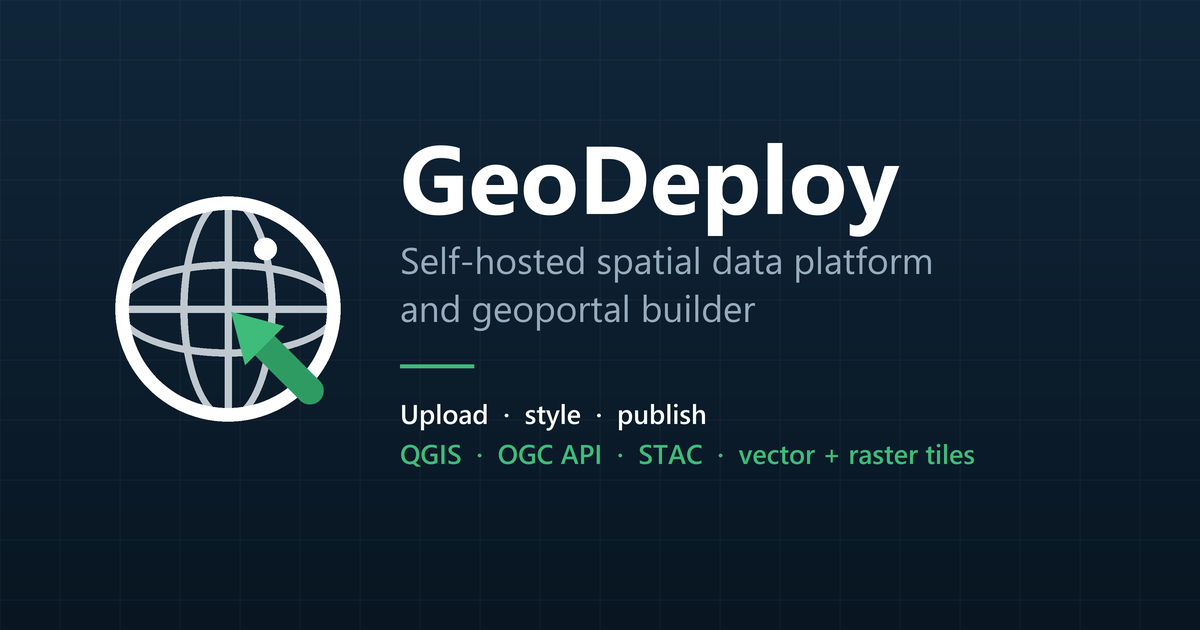
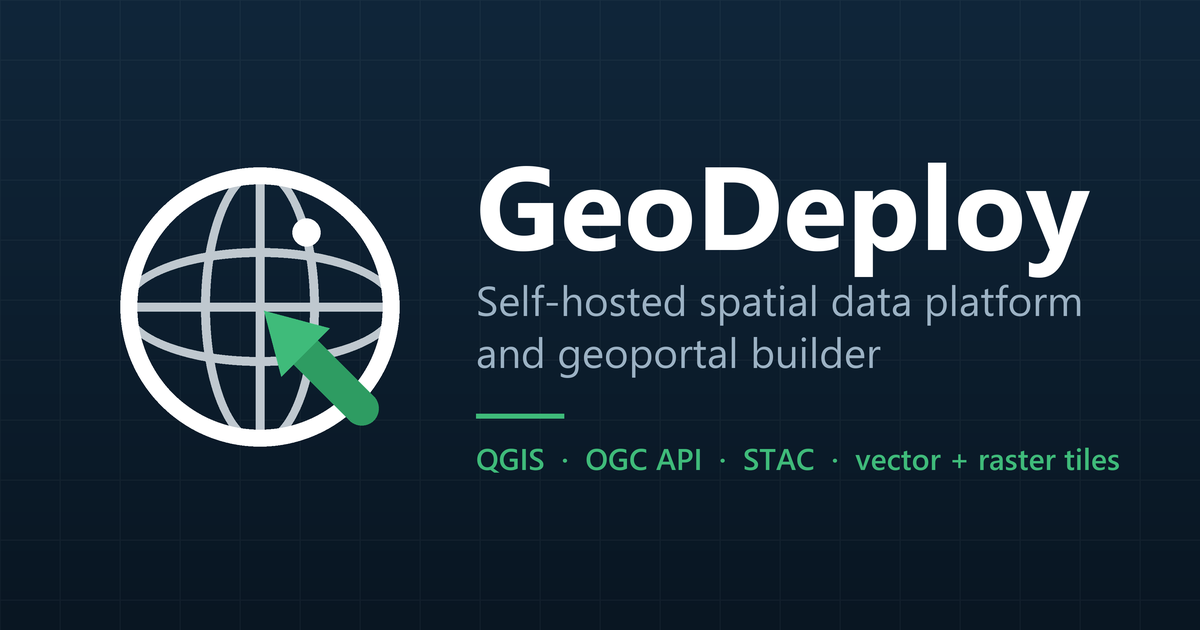
Make the social card survive LinkedIn's compact layout (#74)
The card was designed for the 1200px feed post and only for that. LinkedIn
also renders it at roughly 120px wide in composer previews, comments and DMs,
where the wordmark held up but the tagline and the two supporting lines below
it turned into grey mush.

Fixed by ratio rather than by subtraction, since the detail earns its place at
full size: a bigger mark (300 -> 372), a bigger wordmark (96 -> 118), and two
supporting lines instead of four. The generator also writes a thumbcheck
render - 124px, blown back up NEAREST - so the small size is something you look
at instead of assume.

Changed region(s): [[0.0925, 0.2111, 0.925, 0.754], [0.7092, 0.6937, 0.9558, 0.754], [0.6167, 0.6937, 0.6783, 0.754]]

diff --git a/docs/overrides/README.md b/docs/overrides/README.md
@@ -12,6 +12,12 @@ domain, nothing else — because no page emitted Open Graph tags.
   `site_description`, and the URL to `page.canonical_url` (already absolute — which is what `og:`
   requires).
 
+## The card is designed for two sizes
+`og-image.png` is rendered at 1200x630 for a feed post, but the same file is also shown at roughly
+**120px wide** in composer previews, comments and DMs. At that scale only the mark and the wordmark
+survive, so those carry the composition and the supporting lines are deliberately few and large.
+Check any edit at thumbnail size before judging it full size.
+
 ## Dependencies / relationships
 - `mkdocs.yml` — `theme.custom_dir: docs/overrides`, and `overrides/` is listed in `exclude_docs` so
   MkDocs does not *also* copy this template into the built site as a page.
